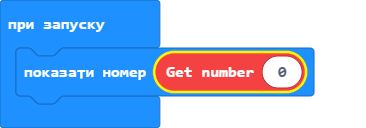
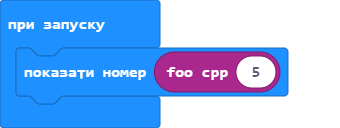
Оновити main.blocks, main.ts, newCpp.cpp, blocks.ts, shims.d.ts

diff --git a/shims.d.ts b/shims.d.ts
@@ -1,10 +1,11 @@
 // Auto-generated. Do not edit.
-declare namespace spaceCpp {
+declare namespace spaceBlock {
 
     /**
-     *
+     * textCpp
      */
-    //% weight=0 shim=spaceCpp::fooCpp
+    //% blockId=un_id block ="name %name"
+    //% color="#AA278D" shim=spaceBlock::fooCpp
     function fooCpp(name: int16): number;
 }
 

diff --git a/blocks.ts b/blocks.ts
@@ -1,14 +1,3 @@
-//% color=#f44242 icon="\uf185"
-namespace spaceTs {
-
-    // some comment
-
-    /**
-    * comment in *.ts
-    */
-    //% weight=30 block="Get number %nTs"
-    export function fooTs(nTs: number): number {
-        return spaceCpp.fooCpp(nTs);
-
-    }
+namespace spaceBlock {
+    
 }

diff --git a/main.ts b/main.ts
@@ -1,1 +1,1 @@
-basic.showNumber(spaceTs.fooTs(0))
+basic.showNumber(spaceBlock.fooCpp(5))

diff --git a/newCpp.cpp b/newCpp.cpp
@@ -4,11 +4,12 @@
 
 using namespace pxt;
 
-namespace spaceCpp {
-/**
-*
-*/
-//% weight=0
+namespace spaceBlock {
+   /**
+    * textCpp
+    */
+    //% blockId=un_id block ="name %name"
+    //% color="#AA278D"
     float fooCpp(int16_t name) {
         return name / 1023.0;
     }
